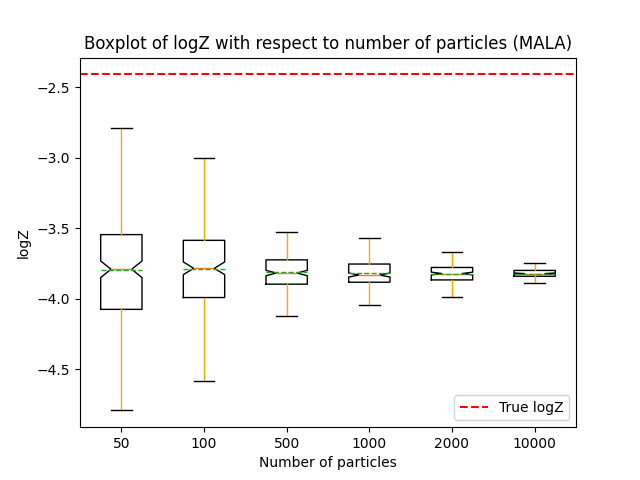
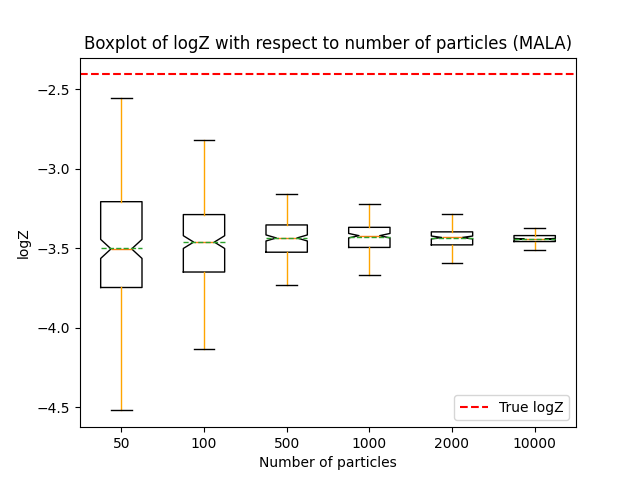
updated logZ calculatin

diff --git a/mcjax/smc/geometric_smc.py b/mcjax/smc/geometric_smc.py
@@ -114,16 +114,17 @@ class GeometricSMC():
         logdensity = LogDensityGeneral(logdensity = lambda x: coefs[t] * self.log_gamma_T.logdensity(x) \
             + (1 - coefs[t]) * self.log_gamma_0.logdensity(x), dim=particles.shape[1])
         # Pilot RWM chain to estimate per-coordinate variances at π_t
-        pilot_steps = 20
-        rwm = Rwm(logtarget=logdensity, step_size=step_size)
-        state_rwm = RwmState(x=particles, logdensity=logdensity.batch(particles))
-        key_pilot = key
-        for _ in range(pilot_steps):
-            state_rwm, _ = rwm.step((state_rwm, key_pilot, step_size, 0))
-            key_pilot, _ = jr.split(key_pilot)
-        pilot_samples = state_rwm.x
-        var_pilot = jnp.var(pilot_samples, axis=0) + 1e-8
-        mass_inv = 1.0 / var_pilot    
+        # pilot_steps = 20
+        # rwm = Rwm(logtarget=logdensity, step_size=step_size)
+        # state_rwm = RwmState(x=particles, logdensity=logdensity.batch(particles))
+        # key_pilot = key
+        # for _ in range(pilot_steps):
+        #     state_rwm, _ = rwm.step((state_rwm, key_pilot, step_size, 0))
+        #     key_pilot, _ = jr.split(key_pilot)
+        # pilot_samples = state_rwm.x
+        # var_pilot = jnp.var(pilot_samples, axis=0) + 1e-8
+        # mass_inv = 1.0 / var_pilot    
+        mass_inv = None
 
         # Create MALA with that frozen mass matrix
         mala = Mala(

diff --git a/mcjax/mcmc/mala.py b/mcjax/mcmc/mala.py
@@ -81,8 +81,8 @@ class Mala(MarkovKernel):
         sqrt_M_inv = jnp.sqrt(M_inv)
 
         # \log(f(x)) \propto -V(x) 
-        x_prop = x + step_size * M_inv * self.logtarget.grad_batch(x) + jr.normal(key_, x.shape) * jnp.sqrt(2 * step_size) * sqrt_M_inv
-        # x_prop = x + step_size * self.logtarget.grad_batch(x) + jr.normal(key_, x.shape) * jnp.sqrt(2 * step_size)
+        # x_prop = x + step_size * M_inv * self.logtarget.grad_batch(x) + jr.normal(key_, x.shape) * jnp.sqrt(2 * step_size) * sqrt_M_inv
+        x_prop = x + step_size * self.logtarget.grad_batch(x) + jr.normal(key_, x.shape) * jnp.sqrt(2 * step_size)
 
         logtarget_proposal = self.logtarget.batch(x_prop)
         

diff --git a/notebooks/sequential_mc/smc_analysis.py b/notebooks/sequential_mc/smc_analysis.py
@@ -95,8 +95,8 @@ mu_1 = jnp.ones(dim)
 sigma_1 = 0.3
 log_var_1 = jnp.log(sigma_1**2)
 log_gamma_T = IsotropicGauss(mu=mu_1, log_var=log_var_1)
-# key, key_ = jr.split(key)
-# smc_test(log_gamma_0, log_gamma_T, num_particles_arr, key_, method='RWM', target='Gaussian')
+key, key_ = jr.split(key)
+smc_test(log_gamma_0, log_gamma_T, num_particles_arr, key_, method='RWM', target='Gaussian')
 key, key_ = jr.split(key)
 smc_test(log_gamma_0, log_gamma_T, num_particles_arr, key_, method='MALA', target='Gaussian')
 
